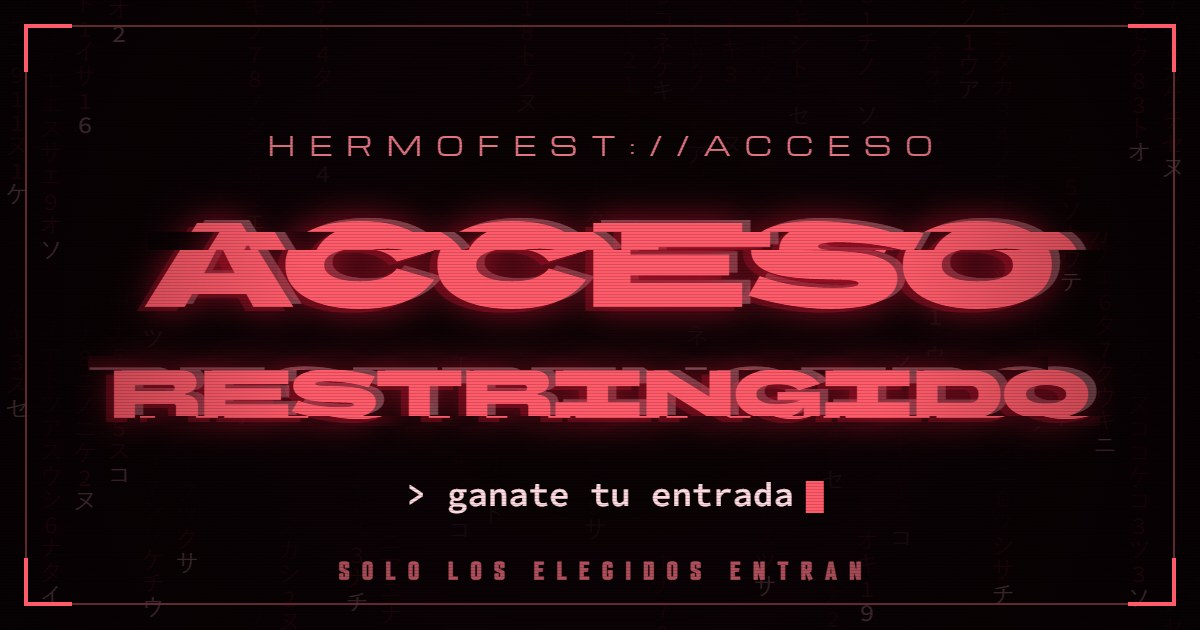
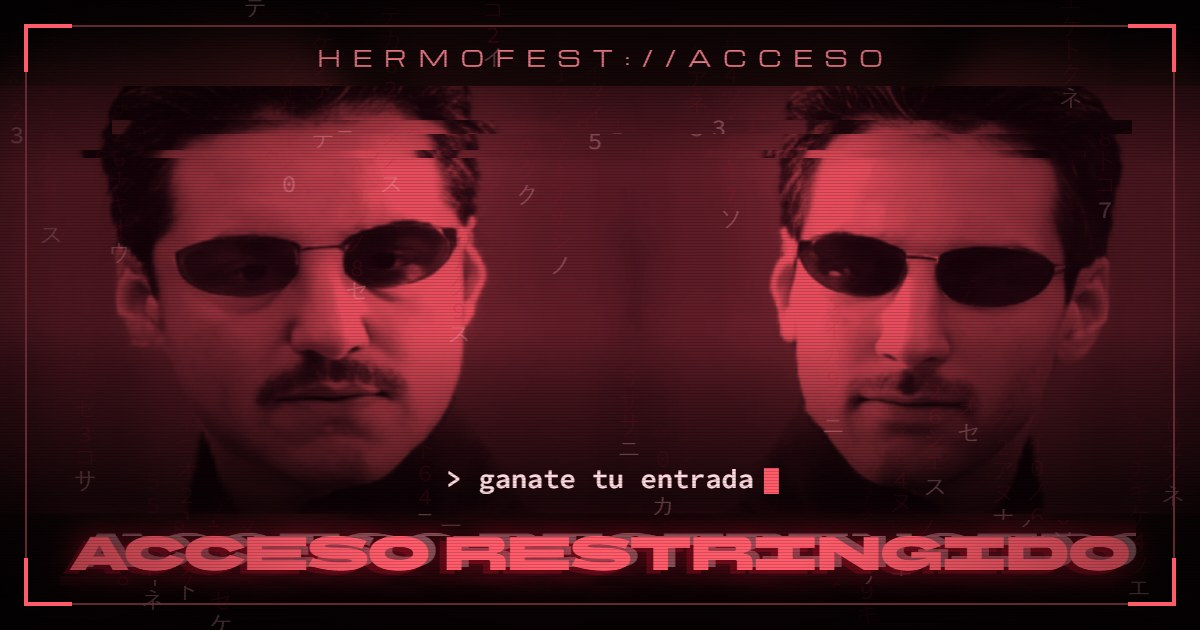
Preview de WhatsApp con los cumpleañeros en duotono rojo, trofeo en orden de resolución, 'NOMBRE Y APELLIDO'

diff --git a/acceso/index.html b/acceso/index.html
@@ -10,7 +10,7 @@
 <meta property="og:title" content="⛔ ACCESO RESTRINGIDO">
 <meta property="og:description" content="Tu entrada no se regala: se gana. ¿Te animás?">
 <meta property="og:url" content="https://andreslanzi.github.io/hermofest/acceso/">
-<meta property="og:image" content="https://andreslanzi.github.io/hermofest/acceso/og.jpg">
+<meta property="og:image" content="https://andreslanzi.github.io/hermofest/acceso/og.jpg?v=2">
 <meta property="og:image:type" content="image/jpeg">
 <meta property="og:image:width" content="1200">
 <meta property="og:image:height" content="630">
@@ -515,6 +515,7 @@ addEventListener("resize", resizePad);
 
 const drawing = { strokes: [], active: false, locked: true, onStroke: null };
 let padDone = false;
+let solvedOrder = NAMES;   /* orden real en que se resolvieron las iniciales */
 function strokeStyle(){
   padCtx.strokeStyle = "#ff5b6a"; padCtx.lineWidth = 4;
   padCtx.lineCap = "round"; padCtx.lineJoin = "round";
@@ -576,17 +577,18 @@ function drawFinalNames(){
   padCtx.clearRect(0,0,padW,padH);
   let fs = padH * .30;
   padCtx.font = WORD_FONT(fs);
-  const w = Math.max(padCtx.measureText(NAMES[0].word).width, padCtx.measureText(NAMES[1].word).width);
+  const w = Math.max(padCtx.measureText(solvedOrder[0].word).width, padCtx.measureText(solvedOrder[1].word).width);
   if(w > padW * .7) fs *= (padW * .7) / w;
   padCtx.font = WORD_FONT(fs);
   padCtx.textAlign = "center"; padCtx.textBaseline = "middle";
   padCtx.shadowColor = "#b2122a"; padCtx.shadowBlur = 18;
   padCtx.fillStyle = "#ff5b6a";
-  padCtx.fillText(NAMES[0].word, padW/2, padH*.34);
-  padCtx.fillText(NAMES[1].word, padW/2, padH*.66);
+  padCtx.fillText(solvedOrder[0].word, padW/2, padH*.34);
+  padCtx.fillText(solvedOrder[1].word, padW/2, padH*.66);
   padCtx.shadowBlur = 0;
 }
-function finishPad(){
+function finishPad(order){
+  solvedOrder = order;
   padDone = true;
   drawFinalNames();
   drawPanel.classList.add("done");
@@ -796,7 +798,7 @@ async function main(){
   await T("Nadie puede decirte qué es HERMOFEST. Tenés que verlo por vos mismo.", { cps:24, pause:400 });
   await T("Primero, identificate.", { cls:"soft", pause:300 });
   armAudio();   /* la música entra junto con el pedido del nombre */
-  await T("Ingresá tu NOMBRE COMPLETO:", { cls:"bright" });
+  await T("Ingresá tu NOMBRE Y APELLIDO:", { cls:"bright" });
 
   let name;
   for(;;){
@@ -823,10 +825,10 @@ async function main(){
 
   const firstHost = await challenge(NAMES, 1);
   await T("Ahora la inicial del otro cumpleañero.", { cls:"bright" });
-  await challenge(NAMES.filter(h => h !== firstHost), 2);
+  const secondHost = await challenge(NAMES.filter(h => h !== firstHost), 2);
   await T("CUMPLEAÑEROS CONFIRMADOS.", { cls:"soft" });
   await sleep(400);
-  finishPad();
+  finishPad([firstHost, secondHost]);
 
   await riddle();
 

diff --git a/index.html b/index.html
@@ -5,7 +5,7 @@
 <meta property="og:title" content="HERMOFEST">
 <meta property="og:description" content="Desde el sótano.">
 <meta property="og:url" content="https://andreslanzi.github.io/hermofest/">
-<meta property="og:image" content="https://andreslanzi.github.io/hermofest/acceso/og.jpg">
+<meta property="og:image" content="https://andreslanzi.github.io/hermofest/acceso/og.jpg?v=2">
 <meta property="og:image:type" content="image/jpeg">
 <meta property="og:image:width" content="1200">
 <meta property="og:image:height" content="630">
@@ -178,11 +178,11 @@
   /* ── botones repartidos alrededor del título ── */
   .btn{
     position:absolute; z-index:4;
-    display:inline-flex; align-items:center; gap:.55em;
-    font-family:var(--wide); letter-spacing:.1em; text-transform:uppercase;
-    font-size:clamp(1.4rem, 7vw, 1.85rem);
+    display:inline-flex; align-items:center; gap:.45em;
+    font-family:var(--wide); letter-spacing:.08em; text-transform:uppercase;
+    font-size:clamp(.82rem, 3.6vw, 1rem);
     border:2px solid var(--ink); background:var(--void); color:var(--ink);
-    padding:1.15em 1.3em; box-shadow:6px 6px 0 rgba(242,242,247,.3);
+    padding:.9em 1.05em; box-shadow:5px 5px 0 rgba(255,77,94,.28);
     transition:transform .18s cubic-bezier(.2,.8,.2,1), background .12s steps(2), color .12s steps(2), box-shadow .2s;
     animation:bootFade .7s both;
   }
